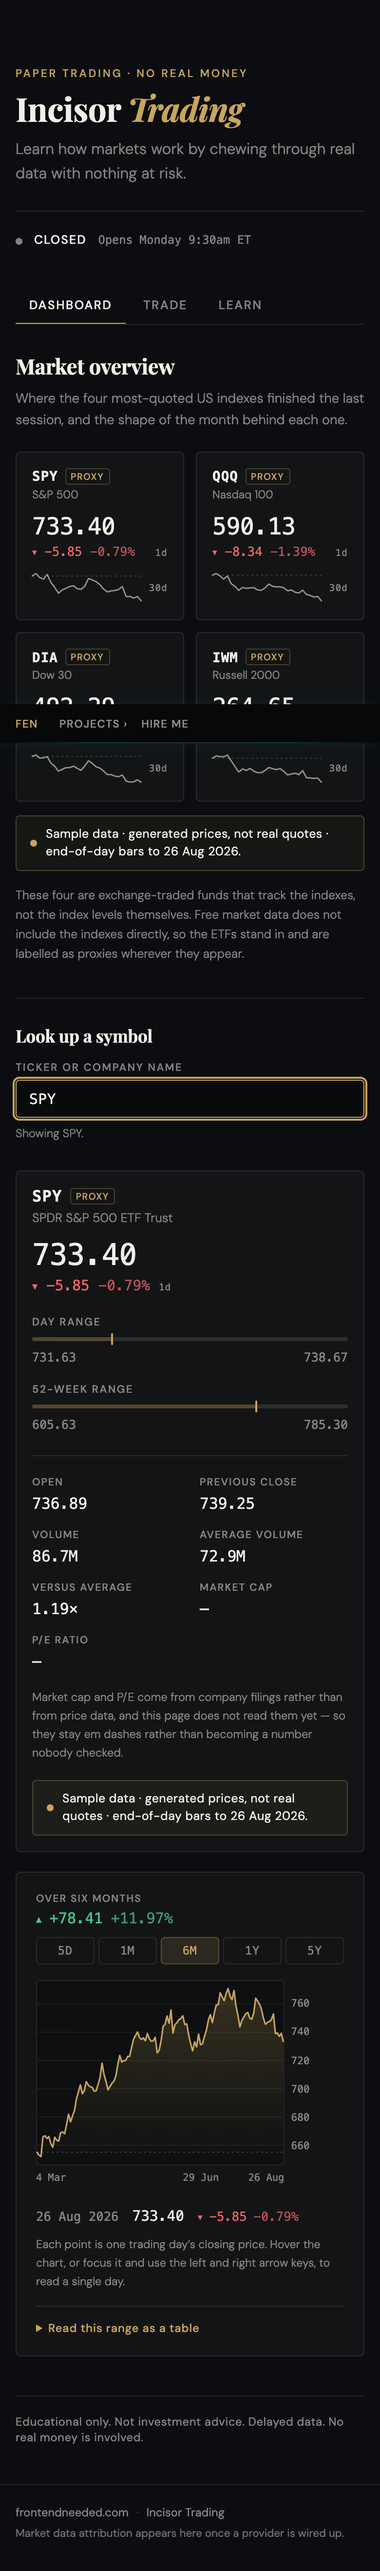
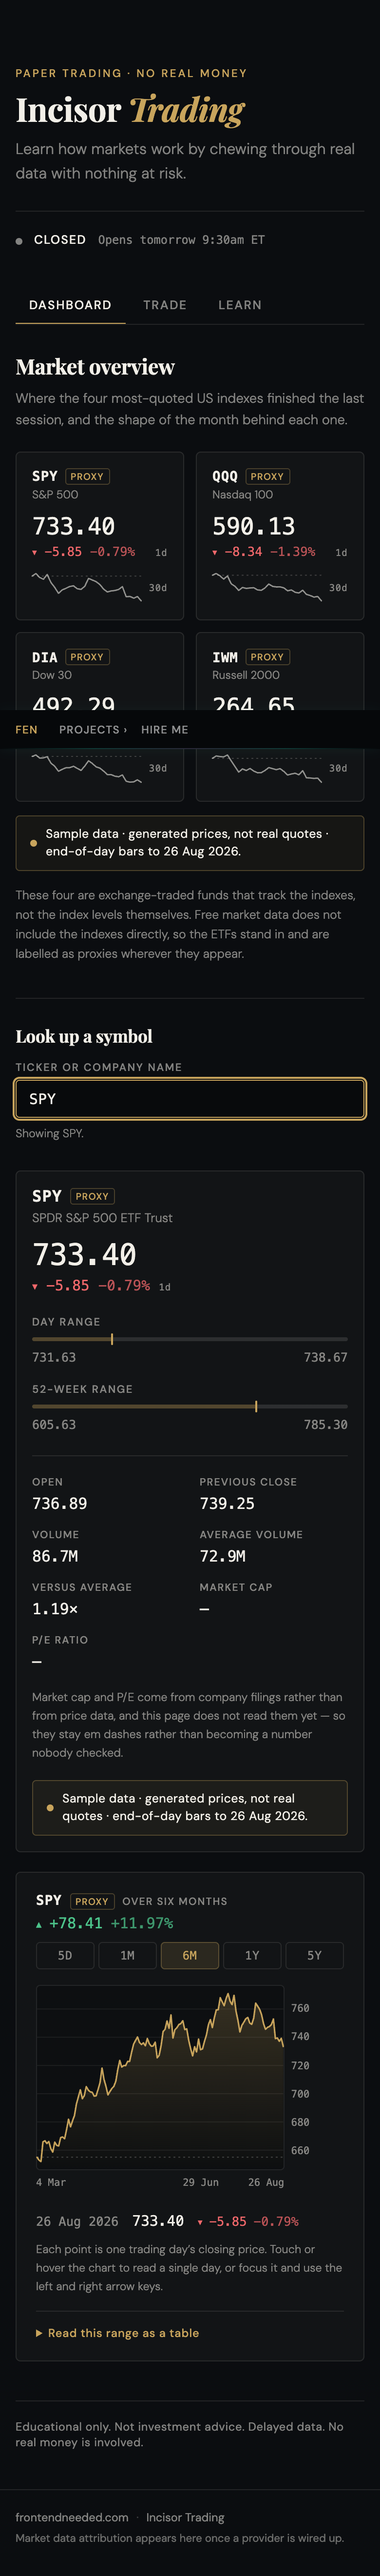
C: shoot the chart state fixtures cannot serve (audit)
--chart-no-history drives the chart into its no-history state once a
symbol has loaded, which is the only way to photograph it: the state
needs /quote to answer and /history not to, and the service either
holds a symbol or does not. It is a real state of the real page in
live mode, it is designed, and until now nobody had looked at it.

Every existing set is retaken — all five carry the chart card, and all
five were showing a head that did not name its symbol. Replaced rather
than accumulated; docs/shots/ is 3.9MB, up from 3.2MB for the new set.

diff --git a/incisor-trading/tools/shoot.py b/incisor-trading/tools/shoot.py
@@ -30,6 +30,13 @@ so without them the only screenshot that could be taken is the one state
 nobody is asking about. --range presses one of the chart's range buttons once
 a symbol is loaded, which is how a range other than the default gets shot.
 
+--chart-no-history is the one state no fixture can produce: a quote that
+arrives with no series behind it, which the chart says in its own space rather
+than failing the panel. It needs /quote to answer and /history not to, and the
+service either has a symbol or does not — so the chart is driven into it
+through the API the quote panel drives it with. It is a real state of the real
+page in live mode, and it is designed, so it is worth a picture.
+
 With --api, /api/incisor/* is forwarded to a running incisor service the way
 Apache forwards it in production, so the dashboard can be shot with real
 fixture data in it. Without it those requests 404, which is the other shot
@@ -138,6 +145,9 @@ SETTLED = ('[data-quote]:not([data-state="loading"])'
 CHART_READY = '[data-chart][data-state="ready"]'
 
 
+CHART_NO_HISTORY = '[data-chart][data-state="unavailable"]'
+
+
 def drive(page, args, problems, label):
     """Put the page into a state that only exists after an interaction.
 
@@ -158,13 +168,18 @@ def drive(page, args, problems, label):
             # with no data behind it settles in not-found, and that is a state
             # worth a screenshot rather than a failure to reach one.
             page.wait_for_selector(SETTLED, timeout=10000)
-            if args.range:
+            if args.range or args.chart_no_history:
                 # The chart is a separate surface with its own state, so it
                 # is waited for separately: the panel settles before the
                 # series it hands over has been drawn.
                 page.wait_for_selector(CHART_READY, timeout=10000)
+            if args.range:
                 page.click('[data-chart-range="%s"]' % args.range)
                 page.wait_for_selector(CHART_READY, timeout=10000)
+            if args.chart_no_history:
+                page.evaluate('symbol => window.IncisorPriceChart'
+                              '.unavailable(symbol)', args.symbol)
+                page.wait_for_selector(CHART_NO_HISTORY, timeout=10000)
         else:
             page.wait_for_selector("[data-search-results] [role=option]",
                                    timeout=10000)
@@ -203,6 +218,10 @@ def main():
     ap.add_argument("--range", default=None,
                     help="press this chart range after the symbol loads, "
                          "e.g. --range 5Y. Needs --symbol.")
+    ap.add_argument("--chart-no-history", action="store_true",
+                    help="drive the chart into its no-history state once the "
+                         "symbol loads — the one state fixtures cannot serve. "
+                         "Needs --symbol.")
     args = ap.parse_args()
 
     from playwright.sync_api import sync_playwright
